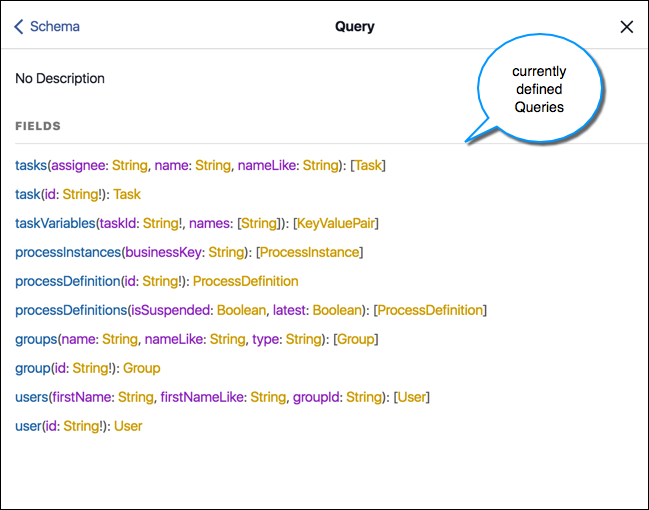
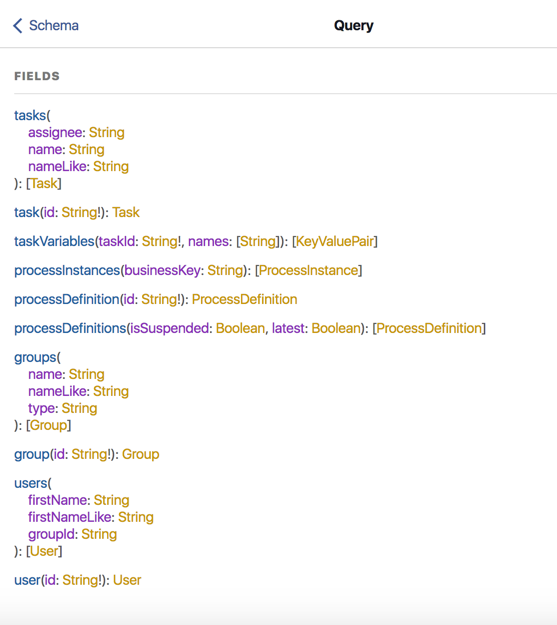
docs(readme): added Release info + updates

diff --git a/README.md b/README.md
@@ -6,55 +6,66 @@ Camunda GraphQL is a Community Extension for Camunda BPM that allows you to use 
 
 ![Overview](/src/main/resources/png/overview_01.png?raw=true "Overview")
 
+Release 0.3.0
+-------------
+- update to Spring Boot 1.5.7
+- update to GraphQL Java Tools 4.1.2
+- add GraphQL Spring Boot Starter
+- add GraphiQL Spring Boot Starter
+- GraphiQL endpoint default set to /camunda-graphql/graphiql
+- GraphQL endpoint default set to /camunda-graphql/graphql
+- Simplification of GraphQL Schema (remove Interfaces like TaskEntity)
+- cleanup of a Mutation 
+- add Mutation startProcessInstanceByMessage
+- claimTask returns updated Task
+- refactor Test setup
+- update Documentation
+
+
 Build the GraphQL server
 ------------------------
 1. Ckeckout or Clone this repository using Git<br>
 2. Adapt `src/main/resources/application.properties`: <br>
 3. Build the project<br>
  for Apache Tomcat:     `mvn clean package`<br>
- for jboss wildfly use the profile wildfly:  `mvn clean package -Pwildfly`<br>
+ for JBoss WildFly use the profile wildfly:  `mvn clean package -Pwildfly`<br>
 
 
 Install the GraphQL server
 --------------------------
 
-**Tomcat**<br>
-- Either identify the latest Release Artifact (`.war` file) from <br>
-https://app.camunda.com/nexus/content/repositories/camunda-bpm-community-extensions/org/camunda/bpm/extension/graphql/camunda-bpm-graphql/ <br>
-- or use the `.war` file from your own build 
-- and copy it to the Tomcat `/webapps folder
+### Tomcat installation
+- Get the latest Release (`.war` file) from the 
+[Camunda Repo](https://app.camunda.com/nexus/content/repositories/camunda-bpm-community-extensions/org/camunda/bpm/extension/graphql/camunda-bpm-graphql/) <br>
+- deploy it to your Tomcat server e.g. copy it to the Tomcat /webapps` folder
 
-**Wildfly**<br>
-Build the `.war file with profile `wildfly`- see chapter 'Build' above.
-
-(Todo: One single installation procedure for all Servlet Container?)
+### Wildfly installation
+For WildFly you have to clone the project and build the `.war` file. <bR>
+See chapter [Build the GraphQL server](#build-the-graphql-server).
    
    
 Test the Installation
 ---------------------
-**Using the "naked" GraphQL endpoint with a Browser:**<br>
-- Open `http://<server-name>:<PORT>/camunda-graphql/graphql/?query={tasks{name}}` <br>
+### Access the GraphQL endpoint with a browser
+- URL:  `http://<server-name>:<PORT>/camunda-graphql/graphql/?query=`{_here is your query_} <br>
   e.g. [http://localhost:8080/camunda-graphql/graphql/?query={tasks{name}}](http://localhost:8080/camunda-graphql/graphql/?query={tasks{name}})<br>
-  This will a JSON object with the names of the current tasks.<br>
+  This will return a JSON object with the names of the current tasks (rendered by your browser).<br>
 
-**Using GraphiQL** _an in-browser IDE for exploring GraphQL_<br>
-- Open `http://<server-name>:<PORT>/camunda-graphql/graphqil/` <br>
+### Access the GraphQL endpoint with GraphiQL _an in-browser IDE for exploring GraphQL_
+- GraphiQL is available at `http://<server-name>:<PORT>/camunda-graphql/graphiql/` <br>
   e.g. [http://localhost:8080/camunda-graphql/graphiql/](http://localhost:8080/camunda-graphql/graphiql/)<br>
-- Type a query on the left side, e.g. `{ tasks {id name}}`      
-- Klick the play-button<br>
-- On the right hand side you should see the response of your query
-- Test other queries or mutations as defined in the GraphQL Schema
-- For examples on queries and mutations: see chapter below. 
+- checkout chapter [GraphQL Queries and Mutations](#graphql-queries-and-mutations)
    
 
 Other GraphQL clients
 --------------------- 
 Beside the build-in GraphiQL you can use other GraphQL clients. <br>
-- just point your GraphQL client to the GraphQL server endpoint: `http://<server-name>:<PORT>/graphql` <br>
-  e.g. [http://localhost:8080/camunda-graphql/graphql/](http://localhost:8080/camunda-graphql/graphql/)<br>
+Basically...
+- ...point your GraphQL client to the GraphQL server endpoint: <br>
+`http://<server-name>:<PORT>/camunda-graphql/graphql` <br>
 - depending on the GraphQL server authentication settings you need to add Authentication Header to your requests
 
-Examples of GraphQL clients:<br>
+Examples of other GraphQL clients:<br>
 
    * GraphQL IDE - An extensive IDE for exploring GraphQL API's<br>
    Link: https://github.com/redound/graphql-ide<br>
@@ -119,11 +130,14 @@ A GraphQL Schema defines the capabilities of a GraphQL server. It exposes all av
 
 ![Docs Root Types](/src/main/resources/png/docs_root_types.png?raw=true "docs root types")<br><br>
 
+### Currently defined queries: 
+
 ![Docs Queries](/src/main/resources/png/docs_queries.png?raw=true "docs queries")<br><br>
+
+### Currently defined mutations:
 
 ![Docs Mutations](/src/main/resources/png/docs_mutations.png?raw=true "docs mutations")<br><br>
 
-![type TaskEntity](/src/main/resources/png/docs_TaskEntity.png?raw=true "type TaskEntity")<br><br>
 
 Defining / Extending the Camunda GraphQL Schema
 -----------------------------------------------
@@ -137,16 +151,15 @@ To get an understanding of Schemas please visit: <bR>
  - http://graphql.org/learn/schema/ <br>
  - http://graphql-java.readthedocs.io/en/stable/schema.html <br>
 
-The whole Camunda GraphQL Schema is divided into several schema files located at `src/main/resource/*.graphqls` - an attempt to group GraphQL Type Definitions by topics<br>
+The Camunda GraphQL Schema is comprised of several schema files located at `src/main/resource/*.graphqls`. <br>
+This is an attempt to group GraphQL Type Definitions by topics<br>
 
 ![schema files overview](/src/main/resources/png/schema_files.png?raw=true "schema files")<br><br>
 
 
-Every GraphQL Schema defines so called _Root Types_ which gives you the entry points for Queries, Mutations, Subscriptions etc. <br>
+The so called _Root Types_ serve as entry points for Queries and Mutations (in the future: Subscriptions etc.) <br>
 
-We have defined a single Root Types schema file `src/main/resources/camunda.graphqls` - you will recognize some of the queries:<br>
-
-![schema file root types](/src/main/resources/png/schema_root_types_file.png?raw=true "schema file root types")<br><br>
+The Root Types schema file is `src/main/resources/camunda.graphqls`<br>
 
 
 
@@ -154,9 +167,10 @@ Introspection
 -------------
 
 
-For interactive GraphQL code completion, build-time validation or other fancy things to represent and interact with a Schema a client (i.e. a GraphQL tools builder) can use a GraphQL Introspection Query to retrieve the Servers GraphQL Schema.<br>
+For interactive GraphQL code completion, build-time validation, GraphQL Schema stiching or other fancy things  
+any GraphQL client can use GraphQLs Introspection to retrieve the whole or parts of the Servers GraphQL Schema.<br>
 
-This is a possible and probably quite complete Introspection Query (from [GraphQL Voyager](https://apis.guru/graphql-voyager/)): 
+This is a possible and probably quite complete _Introspection Query_ (from [GraphQL Voyager](https://apis.guru/graphql-voyager/)): 
     
 
 ```
@@ -253,7 +267,8 @@ query IntrospectionQuery {
   }
 ```
 <br><br>
-The **response** of the above Introspection Query can be pasted into tools like [GraphQL Voyager](https://apis.guru/graphql-voyager/) and within seconds you get a graphical representation of your Schema: <br><br>
+The **response** of the above Introspection Query can be pasted into tools like [GraphQL Voyager](https://apis.guru/graphql-voyager/) as a _Custom Schema_ 
+and within seconds you get a graphical representation of your Schema, like so: <br><br>
 
 ![graphical GraphQL Schema](/src/main/resources/png/graphql_voyager.png?raw=true "graphical GraphQL Schema")<br>
 
@@ -277,7 +292,7 @@ These properties can be set as<br>
  * JNDI attributes from `java:comp/env`
  * Java System properties
  * OS environment variables
- * properties in the file `application.properties` <br>
+ * properties in [application.properties](https://github.com/camunda/camunda-bpm-graphql/blob/master/src/main/resources/application.properties) <br>
 
 E.g. if you are using Tomcat you can add them to catalina.properties.<br>
 
@@ -347,9 +362,12 @@ or delete this property, e.g. in catalina.properties put it in a comment:<br>
 
 Goals
 ---------
-- Camunda Java API exposed to GraphQL, completely
-- GraphQL subscriptions for realtime GUIs
-- build Web and mobile GUIs for Camunda BPM based on GraphQL using modern GUI-libs and JavaScript/TypeScript-frameworks 
+- expose the complete Camunda Java API in GraphQL
+- build modern web and mobile clients for Camunda BPM (freedom to choose your GUI library)
+- build GraphQL-based, customizable versions of **Tasklist, Cockpit, Admin**
+- Camunda BPM as part of a micro-services architecture. Service accessible through a GraphQL endpoint <br>
+(using GraphQL Schema Stiching to combine many GraphQL endpoints to one GraphQL API gateway)
+- Realtime GUIs (add GraphQL subscriptions to Camunda GraphQL)
 
 
 Camunda Forum Thread (initial)
